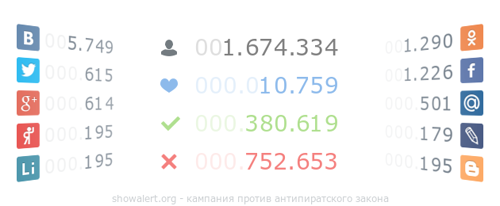
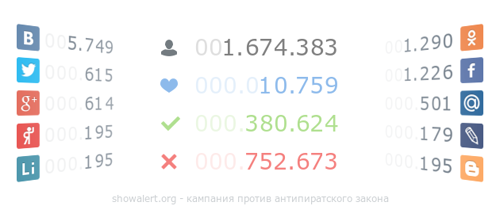
update statistics files for plugins

Changed region(s): [[0.6, 0.1748, 0.69, 0.2913], [0.6, 0.5534, 0.69, 0.6408], [0.6, 0.7573, 0.66, 0.8155]]

diff --git a/votes.js b/votes.js
@@ -1,1 +1,1 @@
-window.lk.votes(31848)
+window.lk.votes(31857)
